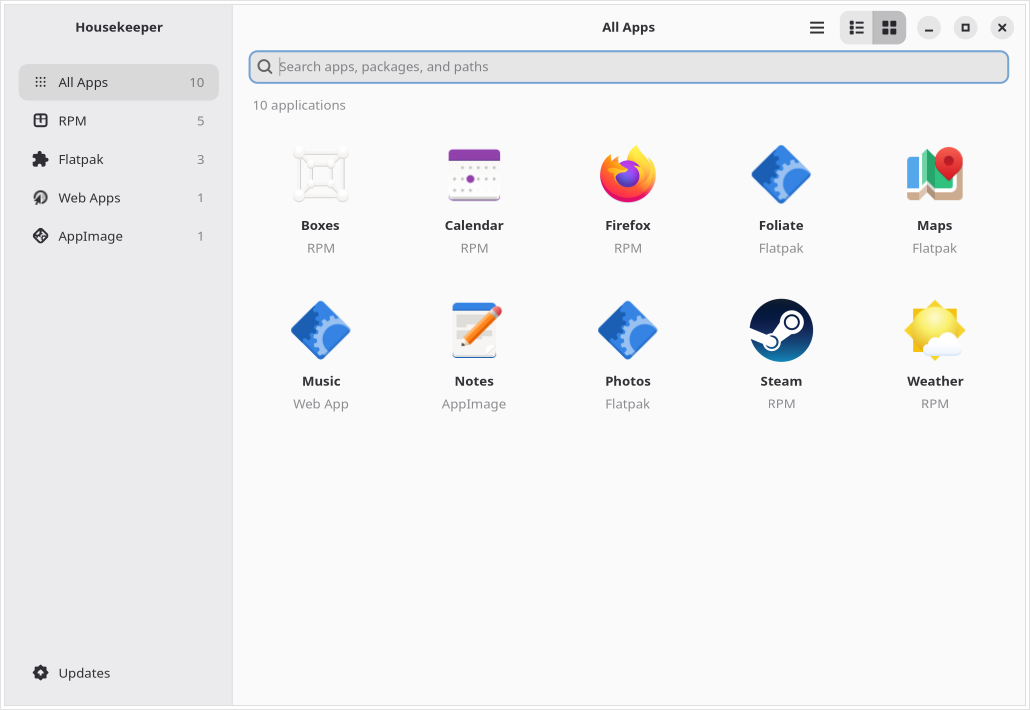
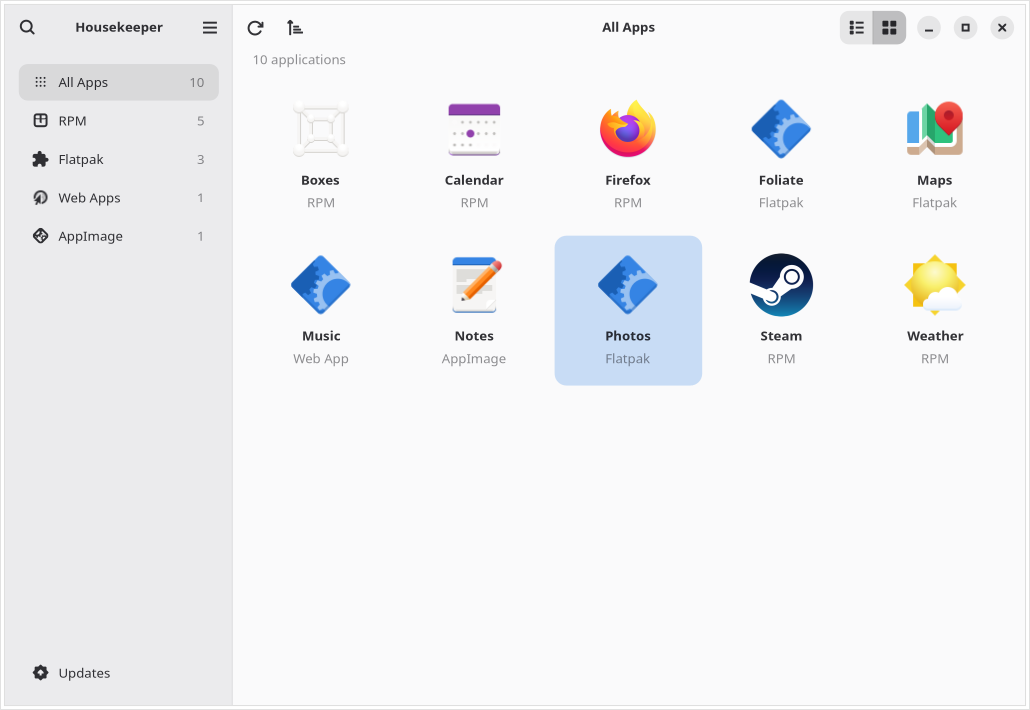
v0.1.9 Refine navigation and add inventory refresh preferences

Changed region(s): [[0.2485, 0.031, 0.9942, 0.5887], [0.2796, 0.2169, 0.3417, 0.5887], [0.1864, 0.031, 0.2175, 0.062]]

diff --git a/src/housekeeper/ui/window.py b/src/housekeeper/ui/window.py
@@ -97,6 +97,8 @@ class HousekeeperWindow(Adw.ApplicationWindow):
     toast_overlay = Gtk.Template.Child()
     split = Gtk.Template.Child()
     sidebar = Gtk.Template.Child()
+    sidebar_header = Gtk.Template.Child()
+    search_button = Gtk.Template.Child()
     sidebar_button = Gtk.Template.Child()
     updates_sidebar = Gtk.Template.Child()
     updates_row = Gtk.Template.Child()
@@ -106,6 +108,7 @@ class HousekeeperWindow(Adw.ApplicationWindow):
     overview_box = Gtk.Template.Child()
     overview_toolbar = Gtk.Template.Child()
     header = Gtk.Template.Child()
+    refresh_button = Gtk.Template.Child()
 
     def __init__(self, application, settings):
         super().__init__(application=application)
@@ -128,6 +131,7 @@ class HousekeeperWindow(Adw.ApplicationWindow):
         self.monitors = []
         self.monitor_paths = set()
         self.refresh_source = 0
+        self.auto_refresh_source = 0
         self.refresh_pending = False
         self.initialized = False
         self.closed = False
@@ -153,6 +157,7 @@ class HousekeeperWindow(Adw.ApplicationWindow):
         self.sidebar_button.connect("clicked", lambda _b: self.split.set_show_sidebar(True))
         self.connect("close-request", self._close)
         self.connect("notify::is-active", self._activated)
+        self.settings.connect("changed::auto-refresh", self._auto_refresh_changed)
         self.refresh()
 
     def _build_overview(self):
@@ -164,7 +169,12 @@ class HousekeeperWindow(Adw.ApplicationWindow):
             margin_bottom=12,
         )
         self.search.connect("search-changed", self._search_changed)
-        self.overview_box.append(self.search)
+        self.search.connect("stop-search", lambda *_: self.search_button.set_active(False))
+        self.search_revealer = Gtk.Revealer(
+            child=self.search, transition_type=Gtk.RevealerTransitionType.SLIDE_DOWN
+        )
+        self.overview_box.append(self.search_revealer)
+        self.search_button.connect("toggled", self._search_toggled)
         self.banner = Adw.Banner(
             title=_("Some sources could not be read"), button_label=_("Details")
         )
@@ -250,7 +260,7 @@ class HousekeeperWindow(Adw.ApplicationWindow):
                     self.updates_page.check() if self.section == "updates" else self.refresh()
                 ),
             ),
-            ("search", lambda *_: self.search.grab_focus()),
+            ("search", self._show_search),
             ("preferences", lambda *_: self.preferences()),
             ("about", lambda *_: self.about()),
         ):
@@ -276,18 +286,18 @@ class HousekeeperWindow(Adw.ApplicationWindow):
         )
         self._sort_tooltip()
         menu = Gio.Menu()
-        menu.append(_("Refresh"), "win.refresh")
         menu.append(_("Preferences"), "win.preferences")
         menu.append(_("About Housekeeper"), "win.about")
-        self.header.pack_end(
+        self.sidebar_header.pack_end(
             Gtk.MenuButton(
                 icon_name="open-menu-symbolic", menu_model=menu, tooltip_text=_("Main Menu")
             )
         )
-        self.header.pack_end(self.sort_button)
+        self.header.pack_start(self.sort_button)
         self.header.pack_end(self.view_controls)
         self.get_application().set_accels_for_action("win.search", ["<Primary>f"])
         self.get_application().set_accels_for_action("win.refresh", ["<Primary>r", "F5"])
+        self.get_application().set_accels_for_action("win.preferences", ["<Primary>comma"])
 
     def _factory_setup(self, _factory, item, mode):
         box = Gtk.Box(
@@ -325,6 +335,7 @@ class HousekeeperWindow(Adw.ApplicationWindow):
         app = obj.record
         picture, name, subtitle, badge, metric = item.widgets
         set_icon(picture, app.icon)
+        picture.set_opacity(1.0 if app.visible else 0.5)
         name.set_label(app.name)
         subtitle.set_label(
             app.status or (BADGES[app.source.value] if mode == "grid" else app.scope)
@@ -476,6 +487,24 @@ class HousekeeperWindow(Adw.ApplicationWindow):
             self.navigation.pop_to_tag("overview")
             self.detail_app = None
 
+    def _show_search(self, *_args):
+        if not self.search_button.get_active():
+            self.search_button.set_active(True)
+            return
+        self._source_activated(
+            self.sidebar, self.sidebar.get_selected_row() or self.sidebar.get_row_at_index(0)
+        )
+        self.search.grab_focus()
+
+    def _search_toggled(self, button):
+        active = button.get_active()
+        self.search_revealer.set_reveal_child(active)
+        if active:
+            self._show_search()
+        else:
+            self.search.set_text("")
+            self._search_changed(self.search)
+
     def _search_changed(self, entry):
         self.query = entry.get_text().casefold()
         self.filter.changed(Gtk.FilterChange.DIFFERENT)
@@ -595,7 +624,7 @@ class HousekeeperWindow(Adw.ApplicationWindow):
                 monitor = Gio.File.new_for_path(str(target)).monitor_directory(
                     Gio.FileMonitorFlags.NONE, None
                 )
-                monitor.connect("changed", lambda *_: self._schedule_refresh())
+                monitor.connect("changed", lambda *_: self._schedule_auto_refresh())
                 self.monitors.append(monitor)
                 self.monitor_paths.add(str(target))
             except GLib.Error:
@@ -605,7 +634,7 @@ class HousekeeperWindow(Adw.ApplicationWindow):
             if key not in self.monitor_paths:
                 try:
                     monitor = installation.create_monitor(None)
-                    monitor.connect("changed", lambda *_: self._schedule_refresh())
+                    monitor.connect("changed", lambda *_: self._schedule_auto_refresh())
                     self.monitors.append(monitor)
                     self.monitor_paths.add(key)
                 except GLib.Error:
@@ -624,9 +653,32 @@ class HousekeeperWindow(Adw.ApplicationWindow):
 
         self.refresh_source = GLib.timeout_add(750, run)
 
+    def _schedule_auto_refresh(self):
+        if self.closed or not self.settings.get_boolean("auto-refresh"):
+            return
+        if self.auto_refresh_source:
+            GLib.source_remove(self.auto_refresh_source)
+
+        def run():
+            # Keep automatic requests separate from queued manual refreshes.
+            if self.service.scanning or self.service.busy or self.operation_active:
+                return GLib.SOURCE_CONTINUE
+            self.auto_refresh_source = 0
+            self.refresh()
+            return GLib.SOURCE_REMOVE
+
+        self.auto_refresh_source = GLib.timeout_add(750, run)
+
+    def _auto_refresh_changed(self, *_):
+        if self.auto_refresh_source:
+            GLib.source_remove(self.auto_refresh_source)
+            self.auto_refresh_source = 0
+        if self.initialized:
+            self._schedule_auto_refresh()
+
     def _activated(self, *_):
         if self.is_active() and self.initialized:
-            self._schedule_refresh()
+            self._schedule_auto_refresh()
 
     def _open_position(self, _view, position):
         if self.service.scanning:
@@ -1258,6 +1310,12 @@ class HousekeeperWindow(Adw.ApplicationWindow):
         page = Adw.PreferencesPage()
         group = Adw.PreferencesGroup(title=_("Application Inventory"))
         row = Adw.SwitchRow(
+            title=_("Automatically Refresh App List"),
+            subtitle=_("Refresh when returning to Housekeeper or installed applications change."),
+        )
+        self.settings.bind("auto-refresh", row, "active", Gio.SettingsBindFlags.DEFAULT)
+        group.add(row)
+        row = Adw.SwitchRow(
             title=_("Show Hidden and Auxiliary Entries"),
             subtitle=_("Include entries normally omitted by the desktop launcher."),
         )
@@ -1339,6 +1397,9 @@ class HousekeeperWindow(Adw.ApplicationWindow):
             self.settings.set_int("window-width", max(360, min(10000, self.get_width())))
             self.settings.set_int("window-height", max(420, min(10000, self.get_height())))
         self.closed = True
+        if self.auto_refresh_source:
+            GLib.source_remove(self.auto_refresh_source)
+            self.auto_refresh_source = 0
         for monitor in self.monitors:
             monitor.cancel()
         if self.refresh_source:

diff --git a/src/housekeeper/ui/updates.py b/src/housekeeper/ui/updates.py
@@ -44,7 +44,7 @@ class UpdatesPage(Adw.NavigationPage):
             icon_name="view-refresh-symbolic", tooltip_text=_("Check for Updates")
         )
         self.refresh_button.connect("clicked", lambda _b: self.check())
-        header.pack_end(self.refresh_button)
+        header.pack_start(self.refresh_button)
         toolbar.add_top_bar(header)
         content = Gtk.Box(
             orientation=Gtk.Orientation.VERTICAL,

diff --git a/src/housekeeper/__init__.py b/src/housekeeper/__init__.py
@@ -1,4 +1,4 @@
 """Housekeeper: understand and manage installed desktop applications."""
 
 APP_ID = "io.github.yuelinxin.housekeeper"
-VERSION = "0.1.8"
+VERSION = "0.1.9"

diff --git a/docs/validation.md b/docs/validation.md
@@ -1,9 +1,34 @@
-# v0.1.8 development validation
+# v0.1.9 development validation
 
 Updated on September 8, 2026. These are local development checks, not a claim that
 the complete Fedora Workstation release acceptance matrix has been signed off.
 No personal application was used as an update or removal target. Earlier dated
 sections below preserve the results and limitations known at each stage.
+
+## v0.1.9 validation — September 8, 2026
+
+- Application, Meson, RPM spec, latest AppStream release, changelog and README
+  installation example agree on 0.1.9. Meson compilation, offline AppStream and
+  desktop-file validation pass; the desktop file retains its optional category
+  hint. The development launcher reports `Housekeeper 0.1.9`.
+- Source archive generation passes; the archive prefix uses 0.1.9 and includes
+  the refreshed README screenshots.
+- The system-Python unit suite passes 330 tests with one skip because dpkg-query
+  is unavailable. Ruff lint/format, configured mypy checks and whitespace checks pass.
+- The full synthetic GTK smoke suite passes on an isolated Xvfb display in
+  31.61 seconds. The 1,000-record filter takes 59.13 ms with 189.4 MiB peak RSS.
+  Earlier desktop-session runs were interrupted by selection and rendering
+  assertions; the isolated run avoids interference from desktop input.
+- Focused GTK checks verify search reveal/clear and focus, header order at normal
+  and 360-pixel widths, refresh actions on both pages, default-on automatic refresh,
+  cancellation of queued automatic requests without losing manual requests,
+  startup loading with automatic refresh disabled, and hidden-icon opacity in both
+  views including restoration when records change. GTK parses the Preferences
+  accelerator as Ctrl+comma.
+- README list and grid screenshots are recaptured from the current UI using
+  synthetic application records. No personal application is updated or removed.
+- RPM/SRPM packaging, real package-manager transactions and the full Fedora 43/44
+  desktop acceptance matrix are not repeated for this UI release preparation.
 
 ## v0.1.8 metadata validation — September 8, 2026
 

diff --git a/README.md b/README.md
@@ -10,9 +10,17 @@ independent AppImages, Chrome and Chromium web apps, PWAsForFirefox, and Steam g
 
 ![Housekeeper in list view](docs/screenshots/list-light.png)
 
+<details>
+<summary>Grid view</summary>
+
+![Housekeeper in grid view](docs/screenshots/grid-light.png)
+
+</details>
+
 ## Features
 
 - Browse a searchable list or grid, filter by source, and sort by name, size, or Last Updated.
+- Open search with Ctrl+F and Preferences with Ctrl+comma; choose automatic or manual list refresh.
 - Inspect versions, file locations, installation scope, and hidden entries.
 - Customize launcher icons and restore the originals.
 - Preview RPM and Flatpak updates and removal where supported, preserving personal data.
@@ -41,7 +49,7 @@ Fedora backends; Housekeeper provides guidance instead. See
 Install a downloaded RPM matching your Fedora release:
 
 ```sh
-sudo dnf install ./housekeeper-0.1.8-1.fc44.noarch.rpm
+sudo dnf install ./housekeeper-0.1.9-1.fc44.noarch.rpm
 ```
 
 Release packages do not configure an automatic update repository.

diff --git a/CHANGELOG.md b/CHANGELOG.md
@@ -1,5 +1,18 @@
 # Changelog
 
+## 0.1.9 — 2026-09-08
+
+- Place search and the main menu on either side of the Housekeeper sidebar title.
+  Hide the search field until requested; Ctrl+F opens it, and Escape or the search
+  button closes it and clears the filter.
+- Move refresh to the left of the application and Updates headers, with sorting
+  beside application refresh. Keep the sidebar button first in narrow windows.
+- Add Ctrl+comma to open Preferences and a remembered automatic app-list refresh
+  switch, enabled by default. Disabling it cancels queued automatic refreshes while
+  preserving startup loading, manual refreshes, and refreshes after app operations.
+- Display hidden application icons at 50% opacity in both list and grid views.
+- Refresh the README screenshots and synchronize application and release metadata.
+
 ## 0.1.8 — 2026-09-08
 
 - Remove successfully updated applications from the visible and persisted update
